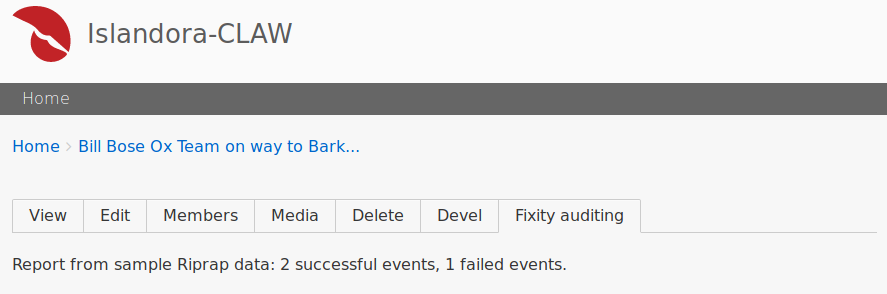
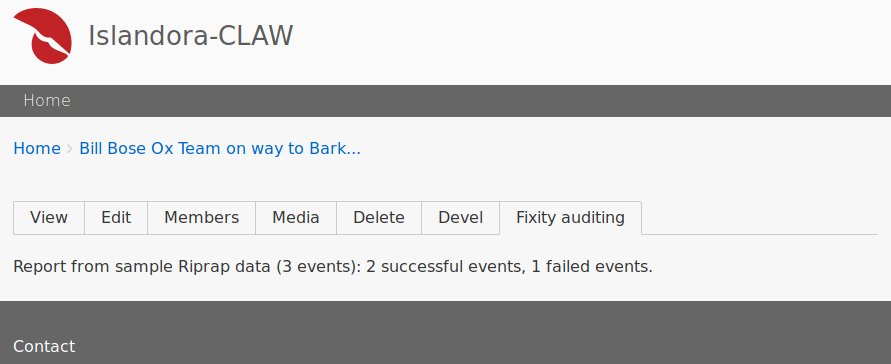
Cleanup.

diff --git a/src/Controller/IslandoraRiprapController.php b/src/Controller/IslandoraRiprapController.php
@@ -5,7 +5,6 @@ namespace Drupal\islandora_riprap\Controller;
 use Drupal\Core\Controller\ControllerBase;
 use Drupal\node\NodeInterface;
 use Drupal\Core\Access\AccessResult;
-use Drupal\Component\Utility\SafeMarkup;
 
 /**
 * Controller.
@@ -63,7 +62,7 @@ class IslandoraRiprapController extends ControllerBase {
          $failed_events++;
        }
      }
-     $output = "Report from sample Riprap data: $successful_events successful events, $failed_events failed events.";
+     $output = "Report from sample Riprap data (3 events): $successful_events successful events, $failed_events failed events.";
      return $output;
    }
 

diff --git a/README.md b/README.md
@@ -2,11 +2,11 @@
 
 ## Introduction
 
-Beginnings of a Drupal 8 module to provide reports using data from the [Riprap](https://github.com/mjordan/riprap) fixity microservice.
+Beginnings of a Drupal 8 module to provide node-level reports using data from the [Riprap](https://github.com/mjordan/riprap) fixity microservice.
 
 ## Overview
 
-Currently doesn't do anything useful other than add a "Riprap" menu item to each node of `islandora_object` content type:
+Currently doesn't do anything useful other than add a "Fixity auditing" menu item to each node of `islandora_object` content type:
 
 ![node menu item](docs/islandora_riprap_node_view.png)
 
@@ -19,7 +19,7 @@ The report will eventually look better and more informative than this.
 ## Requirements
 
 * [Islandora](https://github.com/Islandora-CLAW/islandora) a.k.a. CLAW
-* A Riprap fixity microservice.
+* A [Riprap](https://github.com/mjordan/riprap) fixity microservice.
 
 ## Installation
 
@@ -30,9 +30,9 @@ The report will eventually look better and more informative than this.
 
 1. Go to Drupal's "Configuration" menu.
 1. In the "Islandora" section, click on the "Fixity auditing" link.
-1. Add your options.
+1. Adjust your config options.
 
-## Current maintainer:
+## Current maintainer
 
 * [Mark Jordan](https://github.com/mjordan)
 
